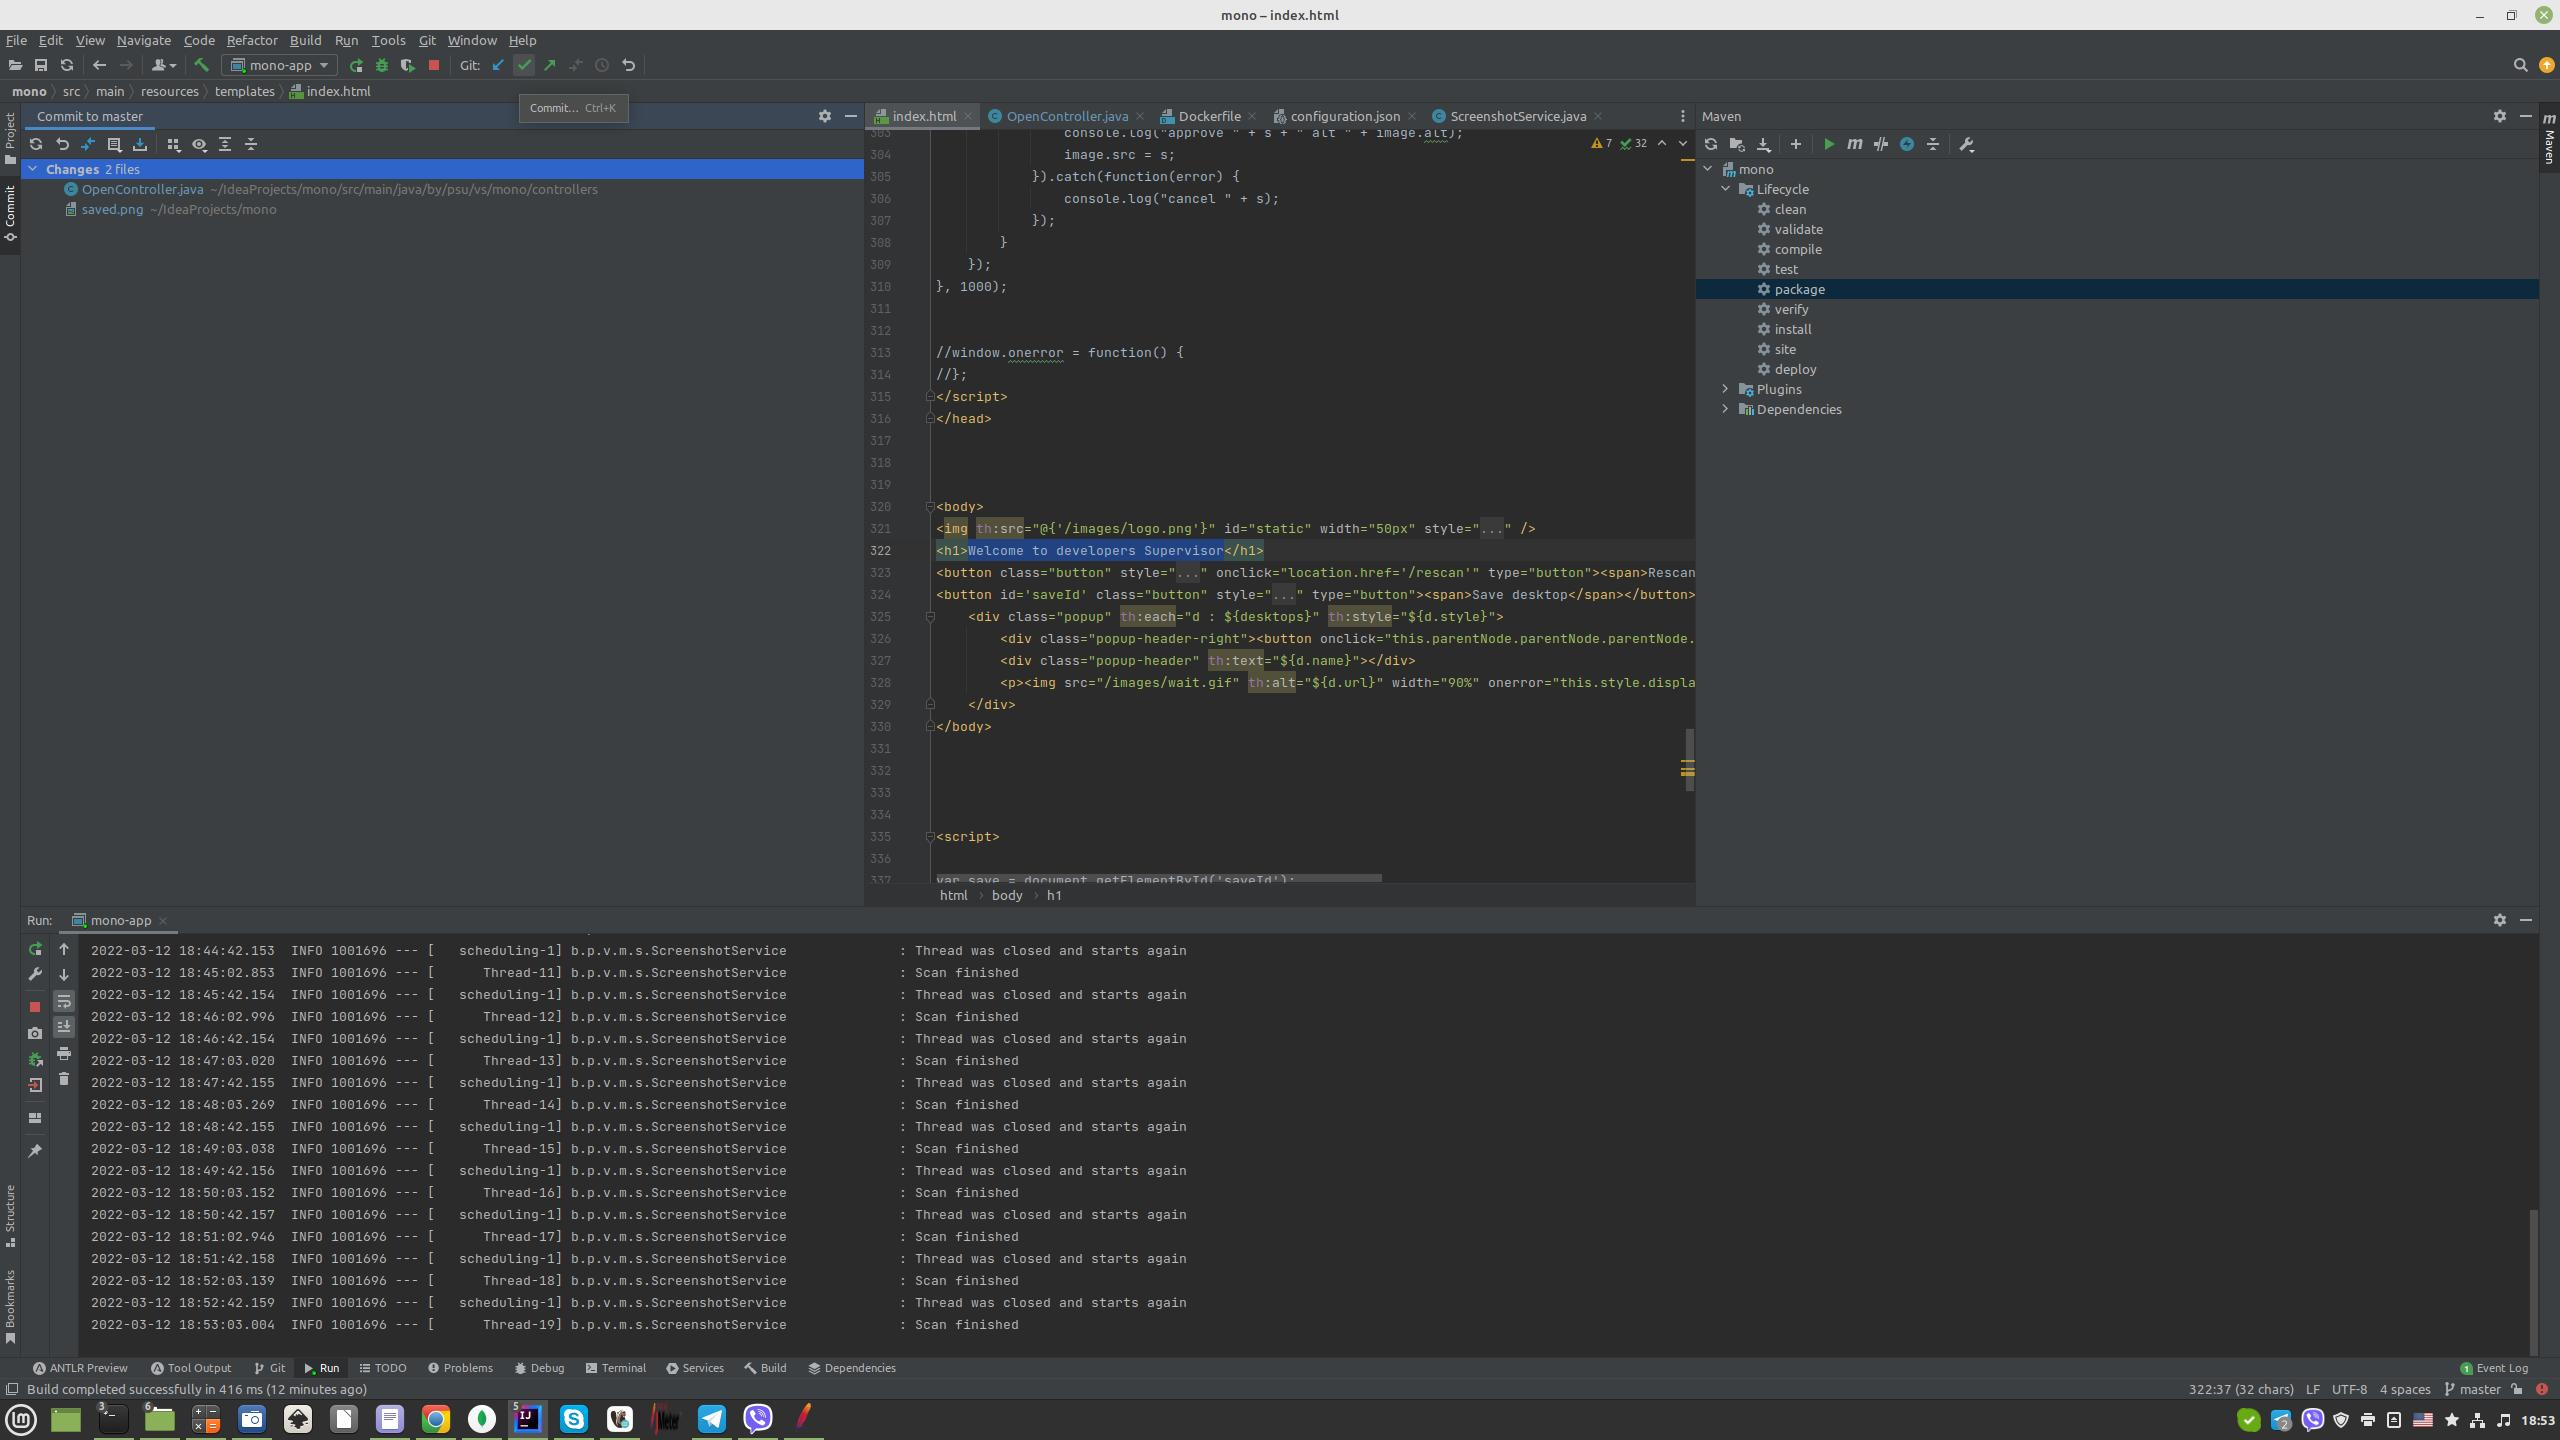
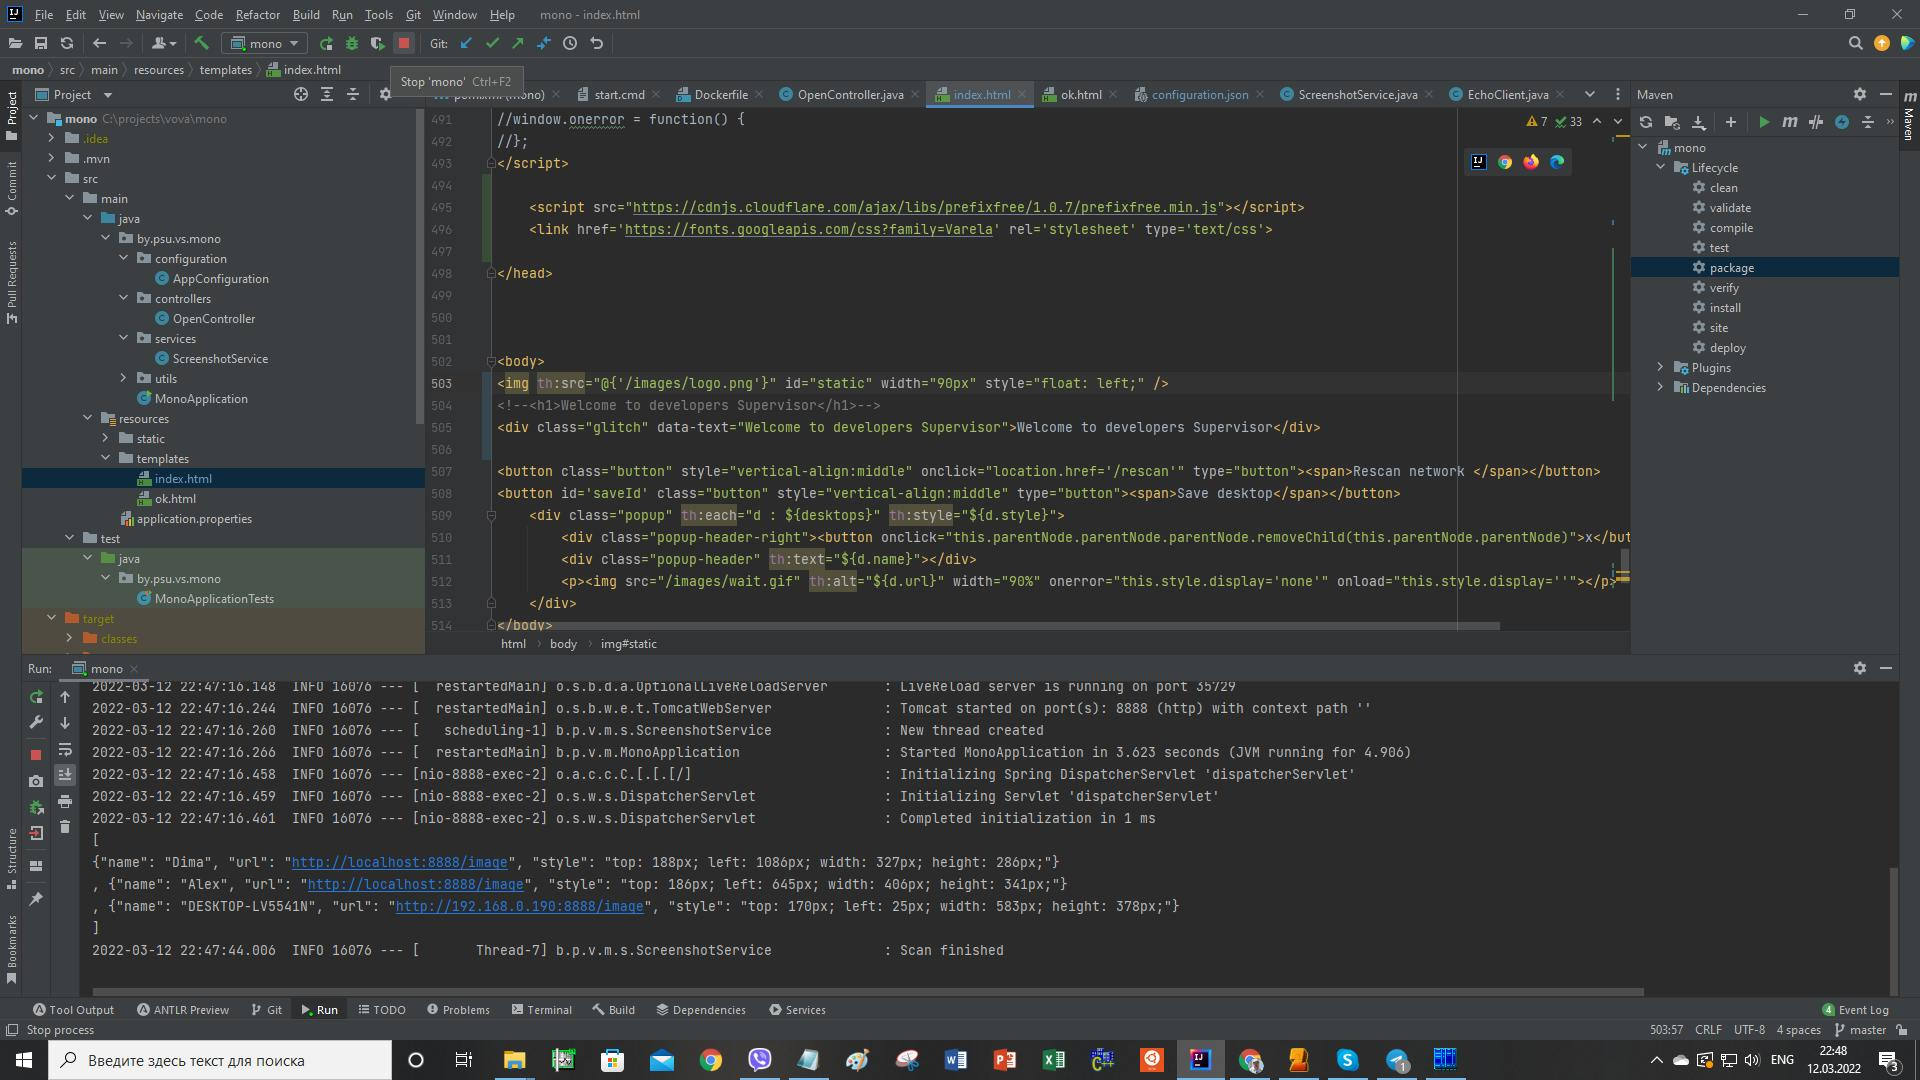
glitch effect

diff --git a/src/main/resources/templates/index.html b/src/main/resources/templates/index.html
@@ -3,6 +3,7 @@
       xmlns:th="http://www.thymeleaf.org">
 <head>
     <title>PSU</title>
+    <link rel="stylesheet" href="https://cdnjs.cloudflare.com/ajax/libs/normalize/5.0.0/normalize.min.css">
 
     <style>
 .popup {
@@ -97,7 +98,7 @@
   color: #FFFFFF;
   text-align: center;
   font-size: 16px;
-  padding: 20px;
+  padding: 10px;
   width: 200px;
   transition: all 0.5s;
   cursor: pointer;
@@ -128,6 +129,183 @@
   opacity: 1;
   right: 0;
 }
+
+
+
+
+body {
+  background: white;
+  font-family: 'Varela', sans-serif;
+}
+
+.glitch {
+  color: black;
+  font-size: 50px;
+  position: relative;
+  width: 90%;
+  margin: 0 auto;
+  float: left;
+  padding-top: 20px;
+}
+
+@keyframes noise-anim {
+  0% {
+    clip: rect(61px, 9999px, 76px, 0);
+  }
+  5% {
+    clip: rect(79px, 9999px, 86px, 0);
+  }
+  10% {
+    clip: rect(84px, 9999px, 56px, 0);
+  }
+  15% {
+    clip: rect(68px, 9999px, 50px, 0);
+  }
+  20% {
+    clip: rect(52px, 9999px, 67px, 0);
+  }
+  25% {
+    clip: rect(21px, 9999px, 53px, 0);
+  }
+  30% {
+    clip: rect(48px, 9999px, 40px, 0);
+  }
+  35% {
+    clip: rect(94px, 9999px, 33px, 0);
+  }
+  40% {
+    clip: rect(83px, 9999px, 82px, 0);
+  }
+  45% {
+    clip: rect(29px, 9999px, 32px, 0);
+  }
+  50% {
+    clip: rect(90px, 9999px, 17px, 0);
+  }
+  55% {
+    clip: rect(91px, 9999px, 43px, 0);
+  }
+  60% {
+    clip: rect(54px, 9999px, 17px, 0);
+  }
+  65% {
+    clip: rect(18px, 9999px, 51px, 0);
+  }
+  70% {
+    clip: rect(89px, 9999px, 78px, 0);
+  }
+  75% {
+    clip: rect(34px, 9999px, 19px, 0);
+  }
+  80% {
+    clip: rect(46px, 9999px, 23px, 0);
+  }
+  85% {
+    clip: rect(58px, 9999px, 60px, 0);
+  }
+  90% {
+    clip: rect(74px, 9999px, 76px, 0);
+  }
+  95% {
+    clip: rect(37px, 9999px, 55px, 0);
+  }
+  100% {
+    clip: rect(32px, 9999px, 12px, 0);
+  }
+}
+.glitch:after {
+  content: attr(data-text);
+  position: absolute;
+  left: 2px;
+  text-shadow: -1px 0 red;
+  top: 0;
+  padding-top: 20px;
+  color: black;
+  background: white;
+  overflow: hidden;
+  clip: rect(0, 900px, 0, 0);
+  animation: noise-anim 2s infinite linear alternate-reverse;
+}
+
+@keyframes noise-anim-2 {
+  0% {
+    clip: rect(79px, 9999px, 79px, 0);
+  }
+  5% {
+    clip: rect(26px, 9999px, 17px, 0);
+  }
+  10% {
+    clip: rect(7px, 9999px, 96px, 0);
+  }
+  15% {
+    clip: rect(73px, 9999px, 45px, 0);
+  }
+  20% {
+    clip: rect(28px, 9999px, 91px, 0);
+  }
+  25% {
+    clip: rect(3px, 9999px, 20px, 0);
+  }
+  30% {
+    clip: rect(71px, 9999px, 41px, 0);
+  }
+  35% {
+    clip: rect(81px, 9999px, 91px, 0);
+  }
+  40% {
+    clip: rect(11px, 9999px, 52px, 0);
+  }
+  45% {
+    clip: rect(65px, 9999px, 45px, 0);
+  }
+  50% {
+    clip: rect(49px, 9999px, 7px, 0);
+  }
+  55% {
+    clip: rect(71px, 9999px, 50px, 0);
+  }
+  60% {
+    clip: rect(6px, 9999px, 68px, 0);
+  }
+  65% {
+    clip: rect(20px, 9999px, 81px, 0);
+  }
+  70% {
+    clip: rect(51px, 9999px, 73px, 0);
+  }
+  75% {
+    clip: rect(44px, 9999px, 36px, 0);
+  }
+  80% {
+    clip: rect(25px, 9999px, 47px, 0);
+  }
+  85% {
+    clip: rect(70px, 9999px, 92px, 0);
+  }
+  90% {
+    clip: rect(63px, 9999px, 76px, 0);
+  }
+  95% {
+    clip: rect(78px, 9999px, 47px, 0);
+  }
+  100% {
+    clip: rect(35px, 9999px, 16px, 0);
+  }
+}
+.glitch:before {
+  content: attr(data-text);
+  position: absolute;
+  left: -2px;
+  text-shadow: 1px 0 blue;
+  top: 0;
+  padding-top: 20px;
+  color: black;
+  background: white;
+  overflow: hidden;
+  clip: rect(0, 900px, 0, 0);
+  animation: noise-anim-2 3s infinite linear alternate-reverse;
+}
+
     </style>
 
 
@@ -313,13 +491,19 @@ setInterval(function() {
 //window.onerror = function() {
 //};
 </script>
+
+    <script src="https://cdnjs.cloudflare.com/ajax/libs/prefixfree/1.0.7/prefixfree.min.js"></script>
+    <link href='https://fonts.googleapis.com/css?family=Varela' rel='stylesheet' type='text/css'>
+
 </head>
 
 
 
 <body>
-<img th:src="@{'/images/logo.png'}" id="static" width="50px" style="float: left;" />
-<h1>Welcome to developers Supervisor</h1>
+<img th:src="@{'/images/logo.png'}" id="static" width="90px" style="float: left;" />
+<!--<h1>Welcome to developers Supervisor</h1>-->
+<div class="glitch" data-text="Welcome to developers Supervisor">Welcome to developers Supervisor</div>
+
 <button class="button" style="vertical-align:middle" onclick="location.href='/rescan'" type="button"><span>Rescan network </span></button>
 <button id='saveId' class="button" style="vertical-align:middle" type="button"><span>Save desktop</span></button>
     <div class="popup" th:each="d : ${desktops}" th:style="${d.style}">
@@ -330,6 +514,7 @@ setInterval(function() {
 </body>
 
 
+<script src='https://cdnjs.cloudflare.com/ajax/libs/jquery/2.1.3/jquery.min.js'></script>
 
 
 <script>
